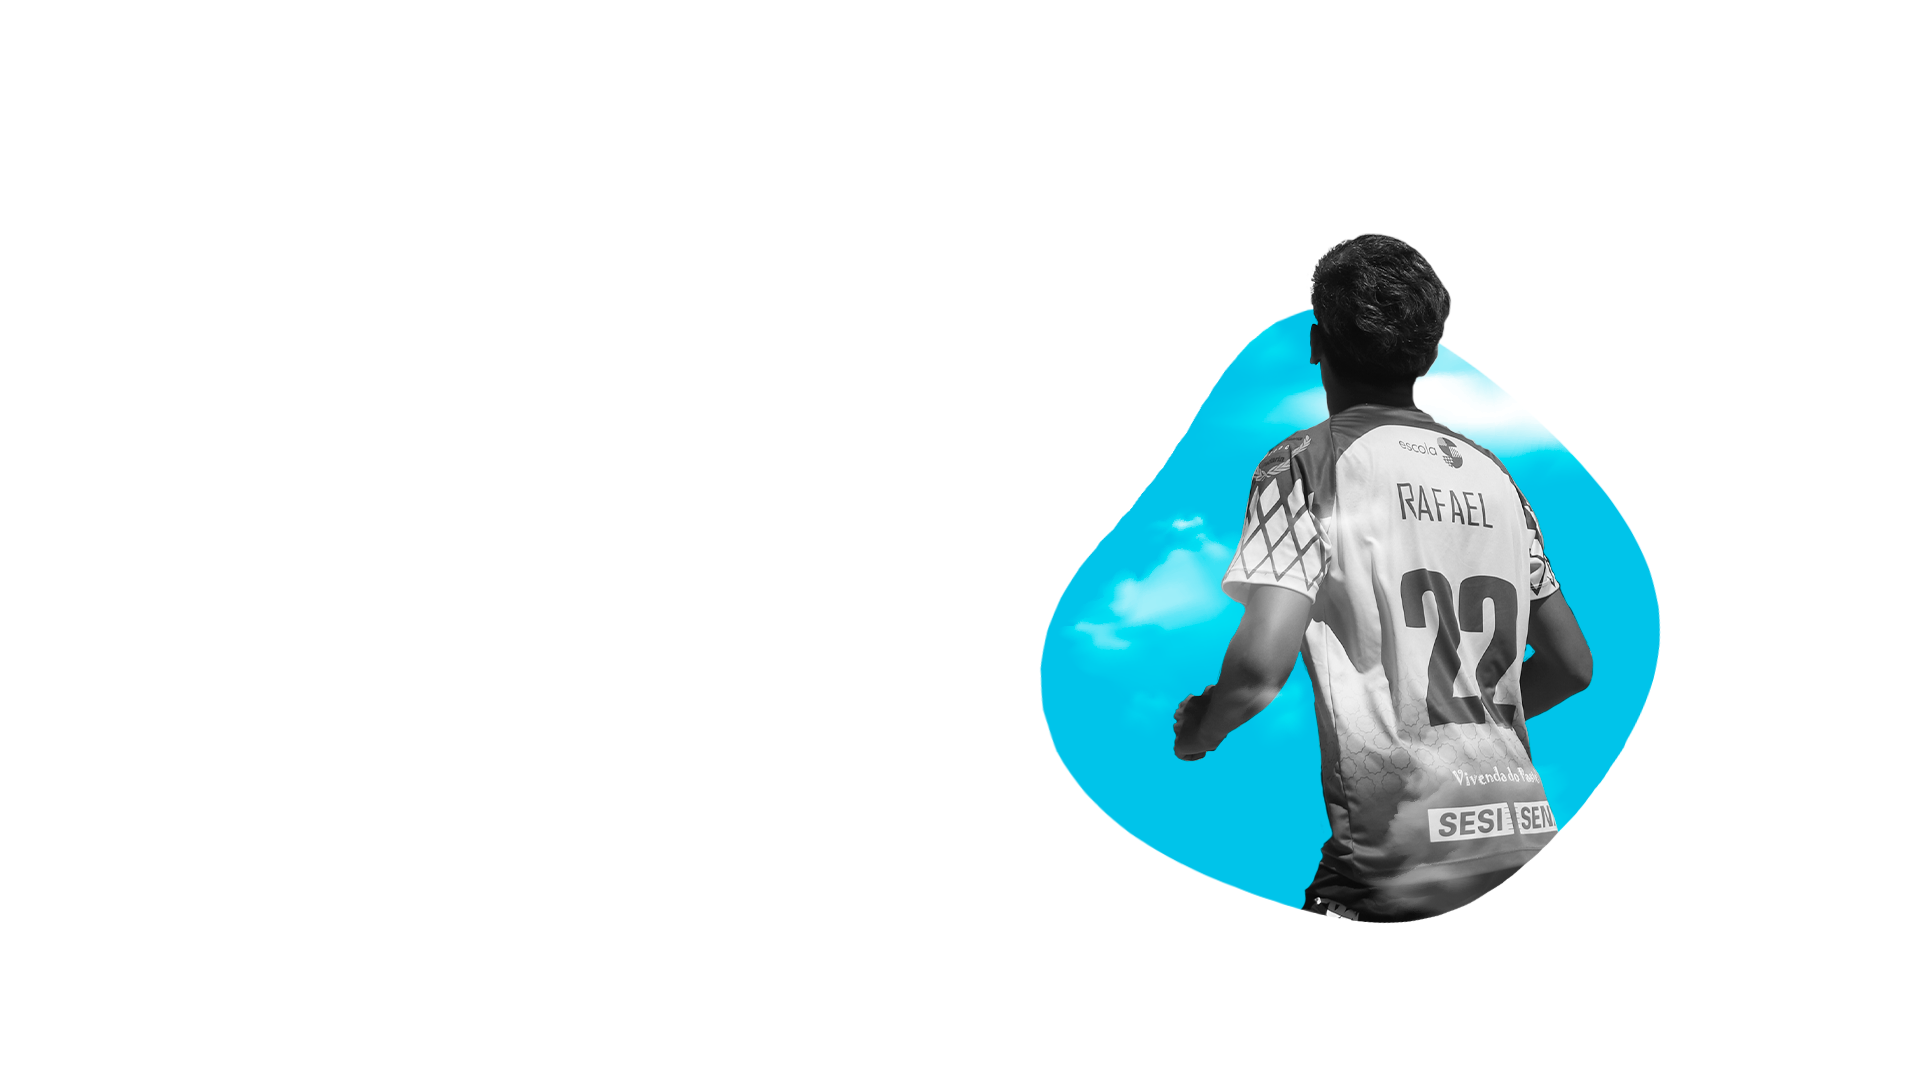
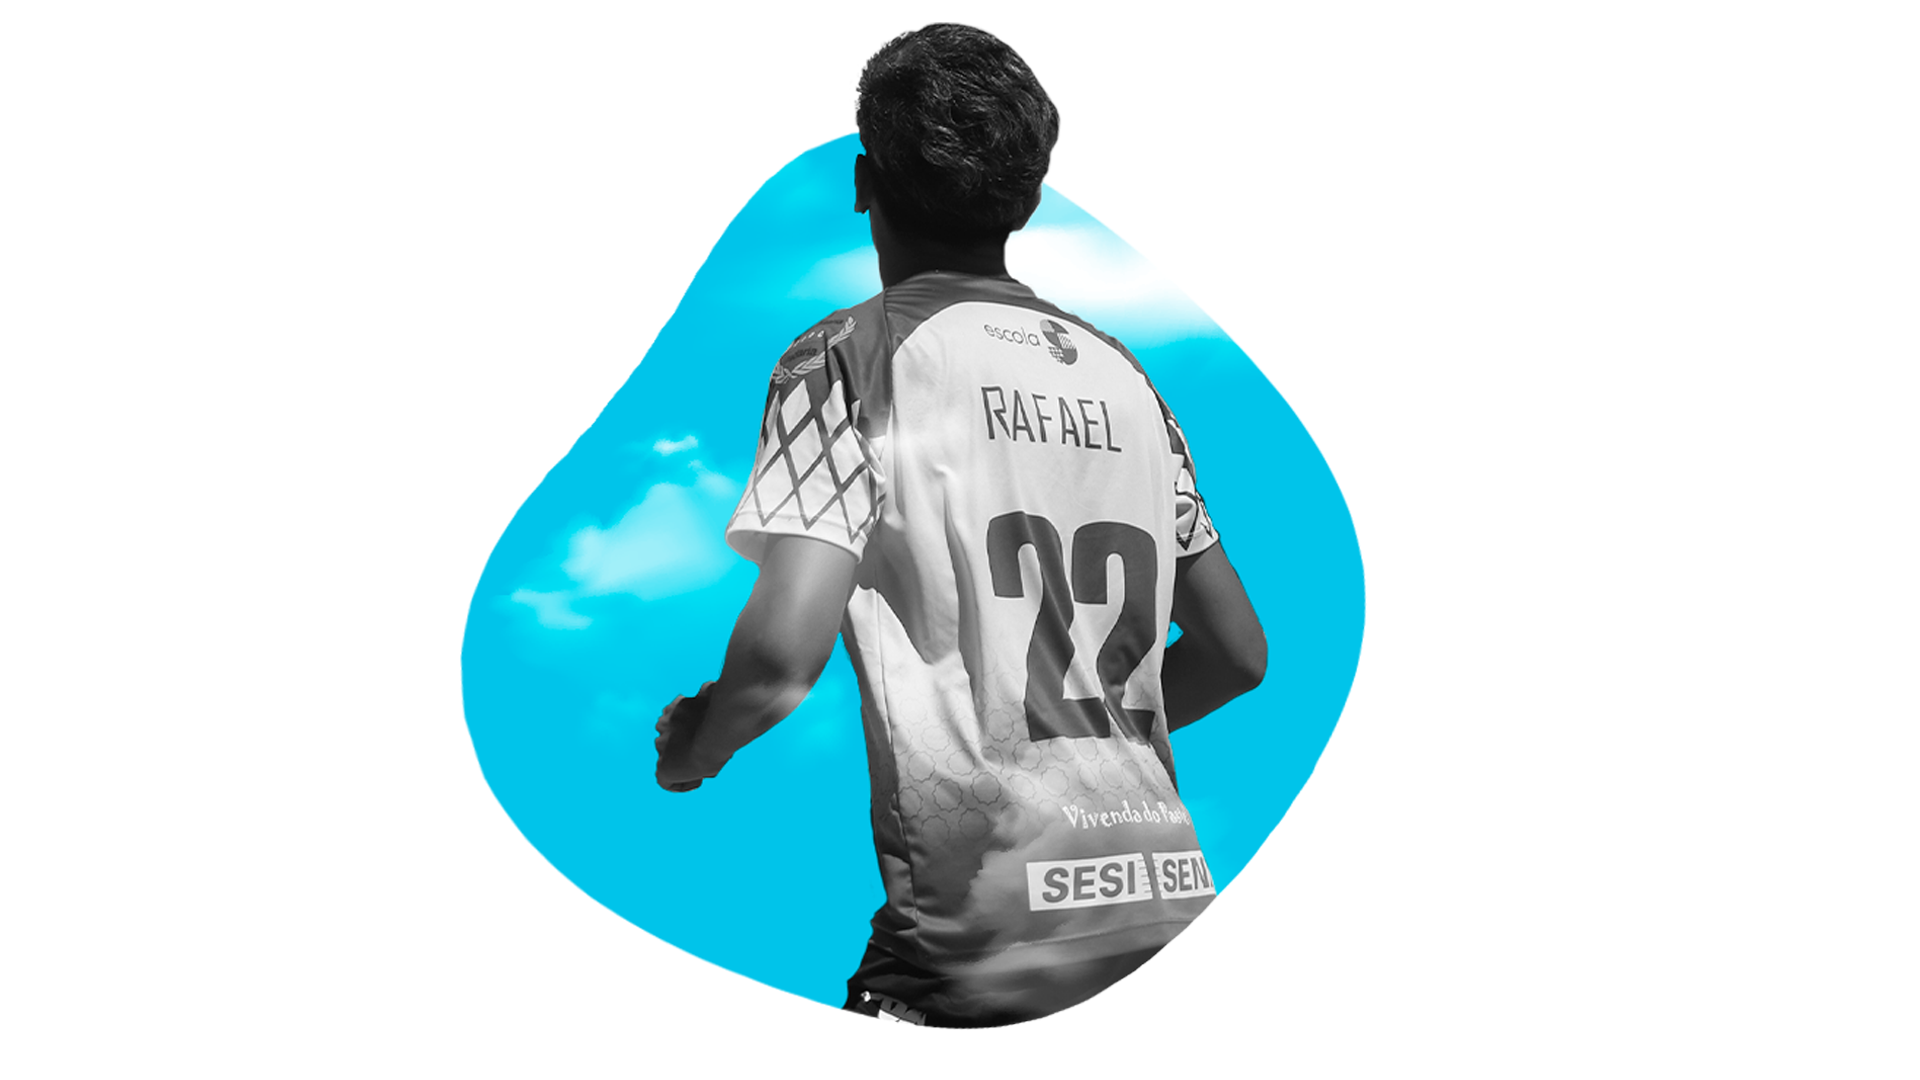
Alteracao em tudo

diff --git a/index.html b/index.html
@@ -33,6 +33,9 @@
             <h3>Front-End Developer &<br>UI/UX Designer</h3>
             <a href="#sobre" class="btn">Sobre mim</a>
         </div>
+        <div class="home-img">
+            <img src="./img/BannerCima.png" alt="Banner Cima">
+        </div>
     </section>
     <section class="sobre" id="sobre">
         <div class="sobre-img">
@@ -73,12 +76,12 @@
             <div class="box">
                 <img src="./img/editordevidoe.png" alt="">
                 <h3>Editor de video</h3>
-                <p>O web designer projeta sites, blogs, sistemas, aplicativos para web e peças digitais como banners e artes para redes sociais.</p>
+                <p>Transformo ideias em vídeos envolventes. Edição criativa, ritmo certo e narrativa visual que conecta.</p>
             </div>
             <div class="box">
                 <img src="./img/lampad.png" alt="">
                 <h3>Diversos</h3>
-                <p>O web designer projeta sites, blogs, sistemas, aplicativos para web e peças digitais como banners e artes para redes sociais.</p>
+                <p>Tenho ideias fora da caixa e coloco criatividade em tudo que faço. Gosto de imaginar, criar e transformar pensamentos em projetos únicos.</p>
             </div>
         </div>
     </section>
@@ -89,7 +92,20 @@
         </div>
         <div class="projetos-content">
             <div class="row">
-                <a href="https://www.figma.com/proto/YpXpZE50jXNiHsf2IYDwco/NETMATCH?node-id=0-1&t=88gkiCQrqW5EJfGO-1"><img src="./img/NetMatch.png" alt=""></a>
+                <a href="https://www.figma.com/proto/YpXpZE50jXNiHsf2IYDwco/NETMATCH?node-id=148-864&t=zihxQQrqixFlpo7p-1" target="_blank"><img src="./img/ranchoDosBichos.png" alt=""></a>
+                <div class="main-row">
+                    <div class="row-text">
+                        <h6>React + Next + Tailwind</h6>
+                    </div> 
+                    <div class="row-icon">
+                        <i class='bx bx-heart'></i>
+                    </div>
+                </div>
+                <h3>Rancho dos Bichos</h3>
+                <p>Produzindo uma aplicação Web para uma PetShop</p>
+            </div>
+            <div class="row">
+                <a href="https://www.figma.com/proto/YpXpZE50jXNiHsf2IYDwco/NETMATCH?node-id=0-1&t=88gkiCQrqW5EJfGO-1" target="_blank"><img src="./img/NetMatch.png" alt=""></a>
                 <div class="main-row">
                     <div class="row-text">
                         <h6>Figma</h6>
@@ -102,23 +118,10 @@
                 <p>Montando do zero uma aplicação mobile estilo linkdin</p>
             </div>
             <div class="row">
-                <a href="https://www.figma.com/proto/AnGppu16XhkYGFw9FIB98d/RanchoDosBichos?node-id=0-1&t=JDCFYyBryh8iGAvV-1"><img src="./img/ranchoDosBichos.png" alt=""></a>
+                <img src="./img/Wihex.png" alt="" target="_blank">
                 <div class="main-row">
                     <div class="row-text">
                         <h6>Figma</h6>
-                    </div> 
-                    <div class="row-icon">
-                        <i class='bx bx-heart'></i>
-                    </div>
-                </div>
-                <h3>Rancho dos Bichos</h3>
-                <p>Produzindo uma aplicação Web para uma PetShop</p>
-            </div>
-            <div class="row">
-                <img src="./img/Wihex.png" alt="">
-                <div class="main-row">
-                    <div class="row-text">
-                        <span class="badge bg-primary-subtle border border-primary-subtle text-primary-emphasis rounded-pill">Primary</span>
                     </div> 
                     <div class="row-icon">
                         <i class='bx bx-heart'></i>

diff --git a/css/style.css b/css/style.css
@@ -77,15 +77,15 @@ section {
 }
 
 .home {
-    height: 100vh;
-    width: 100%;
-    position: relative;
-    background-image: url('/img/BannerCima.png');
-    background-size: cover;
-    background-position: center;
-    display: flex;
-    align-items: center;
-    justify-content: flex-start;
+  max-width: 1200px;
+  margin: 0 auto; /* centraliza a seção */
+  height: 100vh;
+  width: 100%;
+  position: relative;
+  display: flex;
+  align-items: center;
+  justify-content: space-between;
+  padding: 0 20px; /* evita que conteúdo encoste na borda */
 }
 
 .home-text h1{
@@ -96,6 +96,13 @@ section {
     letter-spacing: 2px;
 }
 
+.home-img {
+  width: 50px;
+  height: 750px;
+  display: flex;
+  margin-right: 265px;
+  justify-content: center;
+}
 span {
     color: var(--other-color2);
 }
